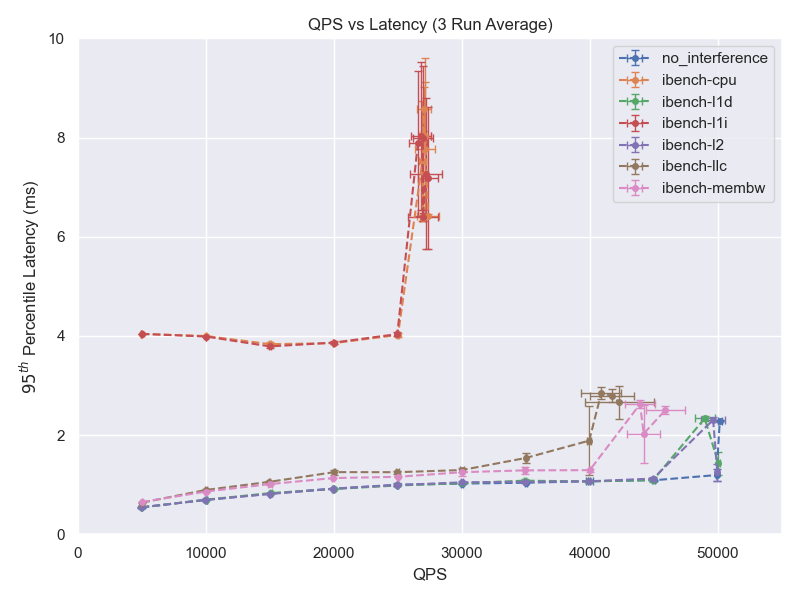
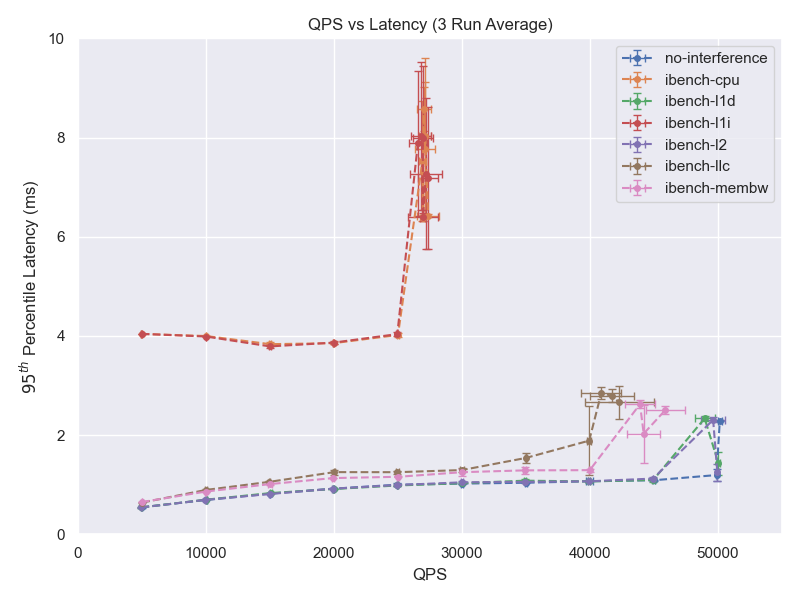
Generate CSVs and update plotting script

Changed region(s): [[0.75, 0.09, 0.9688, 0.33]]

diff --git a/part1/generate_figure.py b/part1/generate_figure.py
@@ -4,7 +4,9 @@ import matplotlib.pyplot as plt
 
 sns.set_theme()
 
-interefence_types = ['no_interference', 'ibench-cpu', 'ibench-l1d', 'ibench-l1i', 'ibench-l2', 'ibench-llc', 'ibench-membw']
+interfence_types = ['some-memcached', 'ibench-cpu', 'ibench-l1d', 'ibench-l1i', 'ibench-l2', 'ibench-llc', 'ibench-membw']
+label_map = {key: key for key in interfence_types if key != 'some-memcached'}
+label_map['some-memcached'] = 'no-interference'
 
 def parse_file_to_dataframe(file_path):
     with open(file_path, 'r') as file:
@@ -37,9 +39,9 @@ def aggregate_metrics(df):
 
 def create_figure(df_list):
     fig = plt.figure(figsize=(8, 6))
-    for interference_type in interefence_types:
+    for interference_type in interfence_types:
         means, errs = aggregate_metrics(df_list[interference_type])
-        plt.errorbar(means['QPS'], means['p95']/1000, xerr=errs['QPS'],  yerr=errs['p95']/1000, fmt='--o', markersize='4', elinewidth=1, capsize=3, label=interference_type)   
+        plt.errorbar(means['QPS'], means['p95']/1000, xerr=errs['QPS'],  yerr=errs['p95']/1000, fmt='--o', markersize='4', elinewidth=1, capsize=3, label=label_map[interference_type])   
     plt.xlabel('QPS')
     plt.ylabel('$95^{th}$ Percentile Latency (ms)')
     plt.xlim(0,55000)
@@ -51,8 +53,8 @@ def create_figure(df_list):
     
 if __name__ == "__main__":
     result_dfs = {}
-    for interference_type in interefence_types:
-        file_path = f'{interference_type}.txt'
-        result_dfs[interference_type] = parse_file_to_dataframe(file_path)
+    for interference_type in interfence_types:
+        file_path = f'results/{interference_type}.csv'
+        result_dfs[interference_type] = pd.read_csv(file_path)
     fig = create_figure(result_dfs)
     fig.savefig('figure.png')
